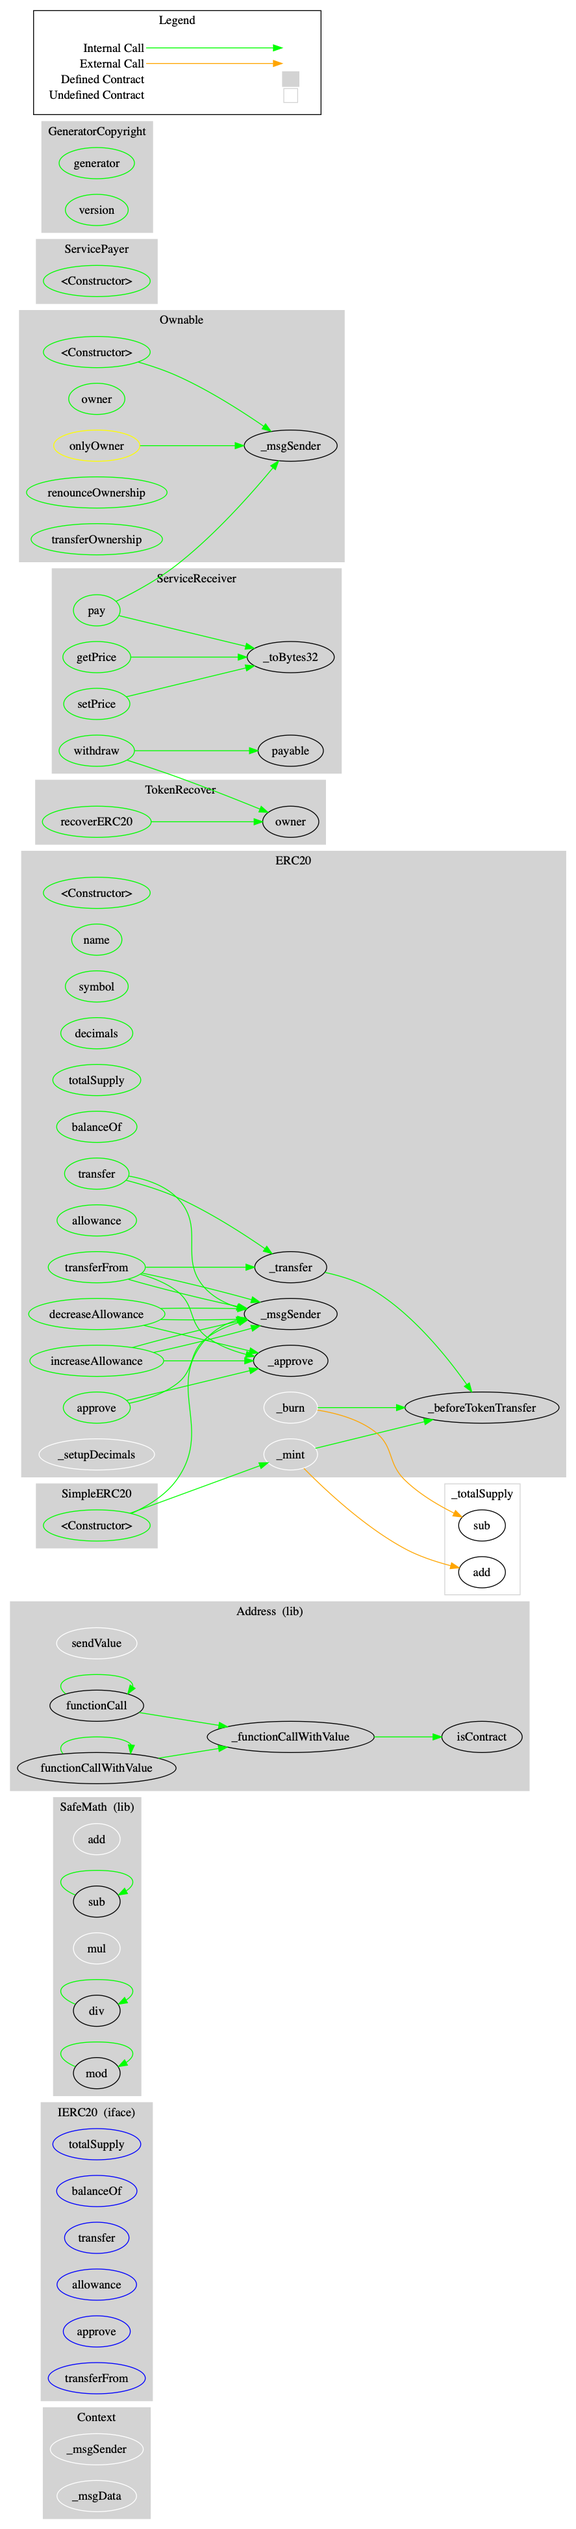
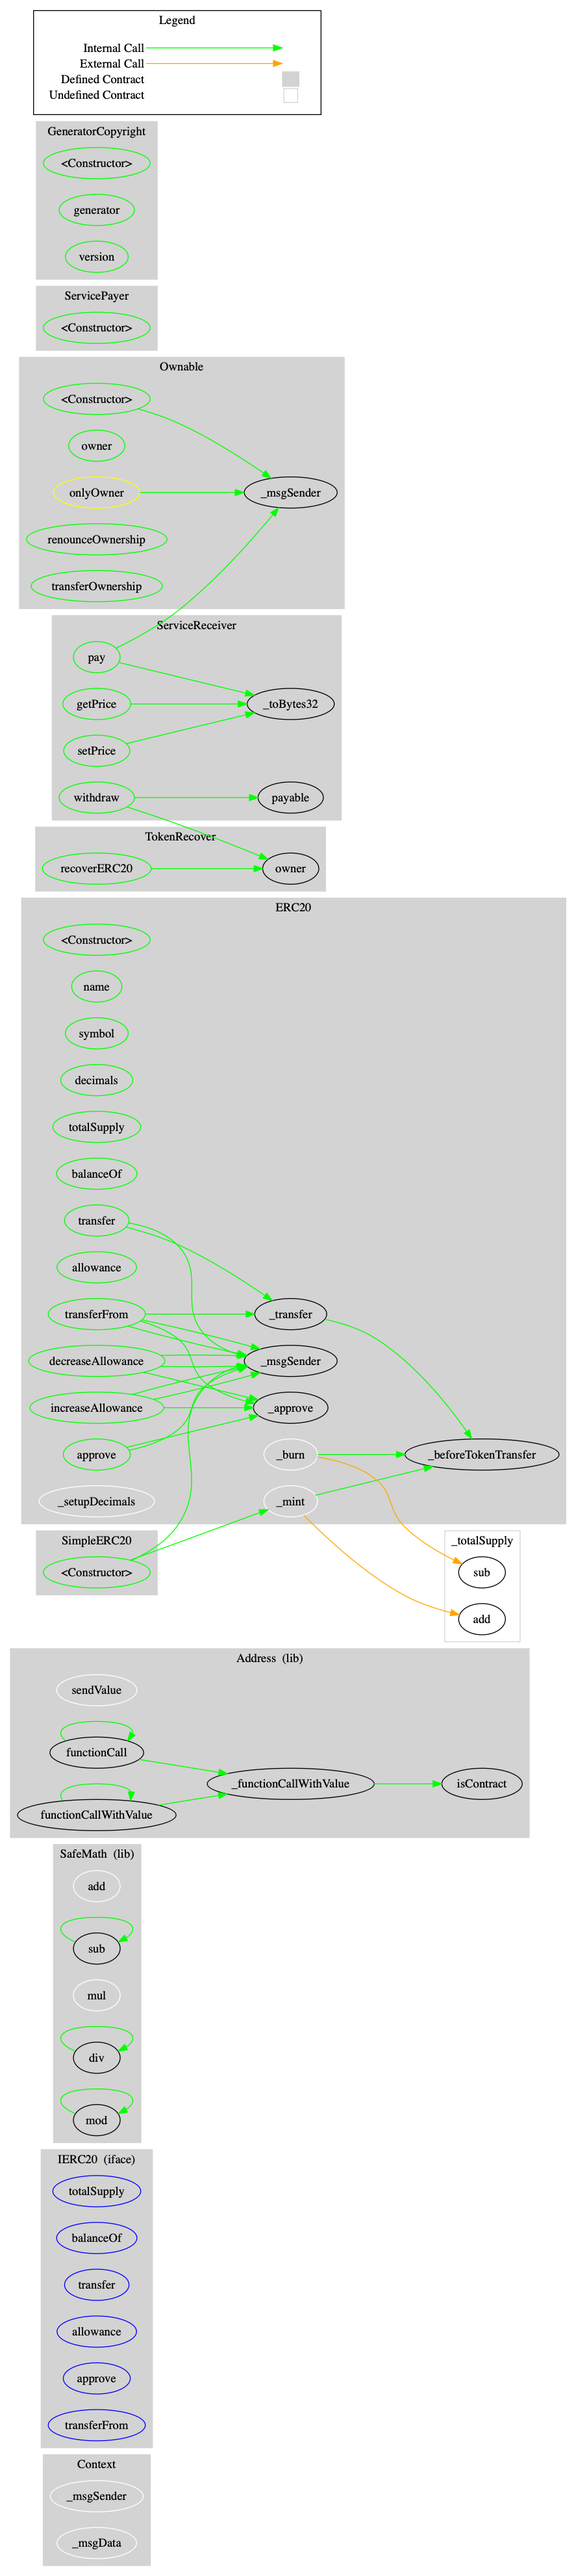
feat: add customizable version in copyright

Changed region(s): [[0.0304, 0.0, 0.9741, 0.9951], [0.274, 0.0, 0.3348, 0.0311]]

diff --git a/test/utils/GeneratorCopyright.behaviour.js b/test/utils/GeneratorCopyright.behaviour.js
@@ -1,8 +1,7 @@
-function shouldBehaveLikeGeneratorCopyright () {
+function shouldBehaveLikeGeneratorCopyright (version) {
   describe('should have', function () {
     const _builtOn = {
       generator: 'https://vittominacori.github.io/erc20-generator',
-      version: 'v4.0.0',
     };
 
     it('a generator value', async function () {
@@ -10,7 +9,7 @@ function shouldBehaveLikeGeneratorCopyright () {
     });
 
     it('a version value', async function () {
-      _builtOn.version.should.be.equal(await this.instance.version());
+      version.should.be.equal(await this.instance.version());
     });
   });
 }

diff --git a/test/token/ERC20/SimpleERC20.test.js b/test/token/ERC20/SimpleERC20.test.js
@@ -15,6 +15,8 @@ contract('SimpleERC20', function ([owner, recipient, thirdParty]) {
 
   const fee = 0;
 
+  const version = 'v4.1.0';
+
   beforeEach(async function () {
     this.serviceReceiver = await ServiceReceiver.new({ from: owner });
     // not to set any price means it doesn't require any fee
@@ -91,7 +93,7 @@ contract('SimpleERC20', function ([owner, recipient, thirdParty]) {
         this.instance = this.token;
       });
 
-      shouldBehaveLikeGeneratorCopyright();
+      shouldBehaveLikeGeneratorCopyright(version);
     });
   });
 });

diff --git a/analysis/description-table/SimpleERC20.md b/analysis/description-table/SimpleERC20.md
@@ -5,7 +5,7 @@
 
 |  File Name  |  SHA-1 Hash  |
 |-------------|--------------|
-| dist/SimpleERC20.dist.sol | f68d0010c9dd62b4de13e6128fef9f65736b7424 |
+| dist/SimpleERC20.dist.sol | e6488e2bf607357b3c7e87c55ae71fd58ea86838 |
 
 
 ### Contracts Description Table
@@ -86,6 +86,7 @@
 | └ | <Constructor> | Public ❗ |  💵 |NO❗ |
 ||||||
 | **GeneratorCopyright** | Implementation |  |||
+| └ | <Constructor> | Public ❗ | 🛑  |NO❗ |
 | └ | generator | Public ❗ |   |NO❗ |
 | └ | version | Public ❗ |   |NO❗ |
 ||||||

diff --git a/analysis/description-table/ServiceReceiver.md b/analysis/description-table/ServiceReceiver.md
@@ -5,7 +5,7 @@
 
 |  File Name  |  SHA-1 Hash  |
 |-------------|--------------|
-| dist/ServiceReceiver.dist.sol | 009a9ef5ec4abb7c1777b575d33a82ecf62d6759 |
+| dist/ServiceReceiver.dist.sol | 0ff6c4558f8b5c6968fd4a0365fbacf25d75bfea |
 
 
 ### Contracts Description Table

diff --git a/analysis/description-table/PowerfulERC20.md b/analysis/description-table/PowerfulERC20.md
@@ -5,7 +5,7 @@
 
 |  File Name  |  SHA-1 Hash  |
 |-------------|--------------|
-| dist/PowerfulERC20.dist.sol | 91ede1b81becc37d4d53545623f1611d12affdce |
+| dist/PowerfulERC20.dist.sol | 951b0f4a2686386368ac2b751044de620221d556 |
 
 
 ### Contracts Description Table

diff --git a/analysis/description-table/StandardERC20.md b/analysis/description-table/StandardERC20.md
@@ -5,7 +5,7 @@
 
 |  File Name  |  SHA-1 Hash  |
 |-------------|--------------|
-| dist/StandardERC20.dist.sol | d36dee7dfc7bbdb58e52e2cfad594b2f513ccc67 |
+| dist/StandardERC20.dist.sol | c48ca0ca19b1c775f1491fbda5a1673fe84ee274 |
 
 
 ### Contracts Description Table

diff --git a/analysis/description-table/CommonERC20.md b/analysis/description-table/CommonERC20.md
@@ -5,7 +5,7 @@
 
 |  File Name  |  SHA-1 Hash  |
 |-------------|--------------|
-| dist/CommonERC20.dist.sol | 59b4d223e13aa13533043d5def453196c3058d41 |
+| dist/CommonERC20.dist.sol | 70e75382ca0ae37239f003ad3a4b7d01722b73f5 |
 
 
 ### Contracts Description Table
